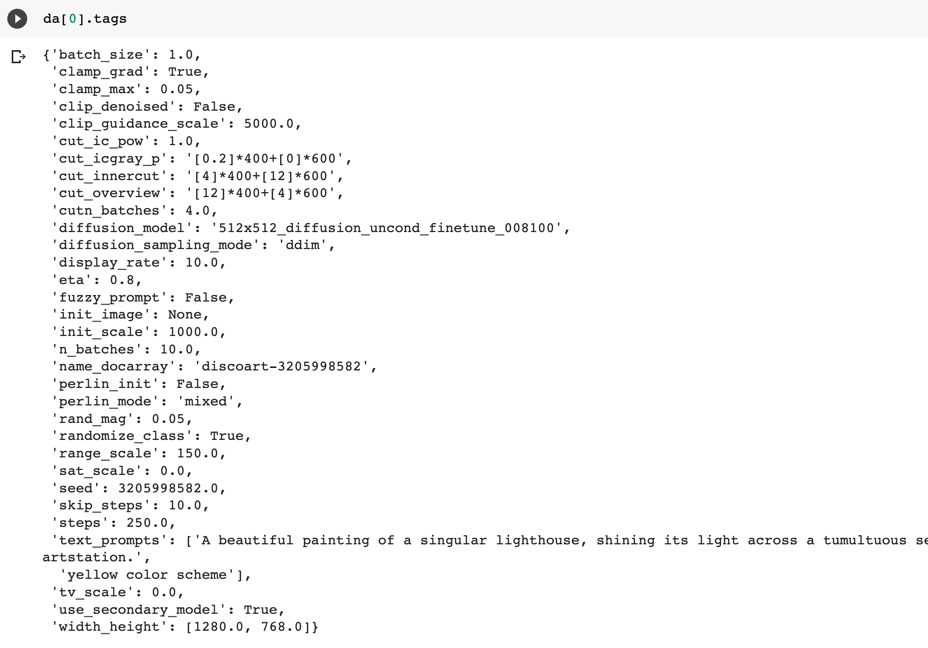
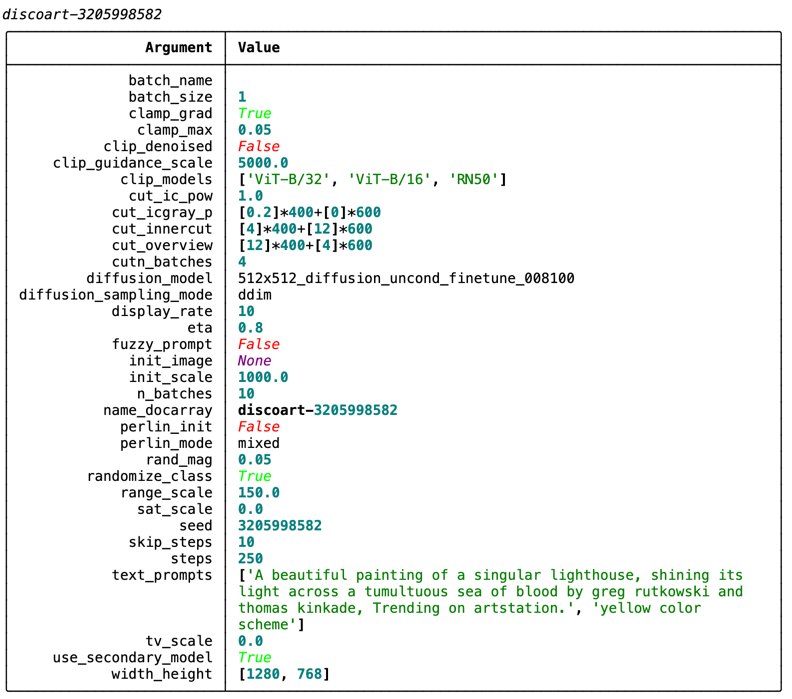
feat: improve persist

Changed region(s): [[0.0, 0.0, 1.0, 1.0], [0.5758, 0.2469, 0.6364, 0.2778]]

diff --git a/discoart/runner.py b/discoart/runner.py
@@ -2,6 +2,7 @@ import gc
 import random
 from threading import Thread
 
+import clip
 import lpips
 import numpy as np
 import torch
@@ -10,7 +11,7 @@ import torchvision.transforms.functional as TF
 from IPython import display
 from docarray import DocumentArray, Document
 from ipywidgets import Output
-import clip
+
 from .helper import parse_prompt, logger
 from .nn.losses import spherical_dist_loss, tv_loss, range_loss
 from .nn.make_cutouts import MakeCutoutsDango
@@ -91,19 +92,19 @@ def do_run(args, models, device) -> 'DocumentArray':
     if args.perlin_init:
         if args.perlin_mode == 'color':
             init = create_perlin_noise(
-                [1.5**-i * 0.5 for i in range(12)], 1, 1, False
+                [1.5 ** -i * 0.5 for i in range(12)], 1, 1, False
             )
             init2 = create_perlin_noise(
-                [1.5**-i * 0.5 for i in range(8)], 4, 4, False
+                [1.5 ** -i * 0.5 for i in range(8)], 4, 4, False
             )
         elif args.perlin_mode == 'gray':
-            init = create_perlin_noise([1.5**-i * 0.5 for i in range(12)], 1, 1, True)
-            init2 = create_perlin_noise([1.5**-i * 0.5 for i in range(8)], 4, 4, True)
+            init = create_perlin_noise([1.5 ** -i * 0.5 for i in range(12)], 1, 1, True)
+            init2 = create_perlin_noise([1.5 ** -i * 0.5 for i in range(8)], 4, 4, True)
         else:
             init = create_perlin_noise(
-                [1.5**-i * 0.5 for i in range(12)], 1, 1, False
+                [1.5 ** -i * 0.5 for i in range(12)], 1, 1, False
             )
-            init2 = create_perlin_noise([1.5**-i * 0.5 for i in range(8)], 4, 4, True)
+            init2 = create_perlin_noise([1.5 ** -i * 0.5 for i in range(8)], 4, 4, True)
         # init = TF.to_tensor(init).add(TF.to_tensor(init2)).div(2).to(device)
         init = (
             TF.to_tensor(init)
@@ -150,7 +151,7 @@ def do_run(args, models, device) -> 'DocumentArray':
             for model_stat in model_stats:
                 for i in range(args.cutn_batches):
                     t_int = (
-                        int(t.item()) + 1
+                            int(t.item()) + 1
                     )  # errors on last step without +1, need to find source
                     # when using SLIP Base model the dimensions need to be hard coded to avoid AttributeError: 'VisionTransformer' object has no attribute 'input_resolution'
                     try:
@@ -187,10 +188,10 @@ def do_run(args, models, device) -> 'DocumentArray':
                         losses.sum().item()
                     )  # log loss, probably shouldn't do per cutn_batch
                     x_in_grad += (
-                        torch.autograd.grad(
-                            losses.sum() * args.clip_guidance_scale, x_in
-                        )[0]
-                        / args.cutn_batches
+                            torch.autograd.grad(
+                                losses.sum() * args.clip_guidance_scale, x_in
+                            )[0]
+                            / args.cutn_batches
                     )
             tv_losses = tv_loss(x_in)
             if secondary_model:
@@ -199,9 +200,9 @@ def do_run(args, models, device) -> 'DocumentArray':
                 range_losses = range_loss(out['pred_xstart'])
             sat_losses = torch.abs(x_in - x_in.clamp(min=-1, max=1)).mean()
             loss = (
-                tv_losses.sum() * args.tv_scale
-                + range_losses.sum() * args.range_scale
-                + sat_losses.sum() * args.sat_scale
+                    tv_losses.sum() * args.tv_scale
+                    + range_losses.sum() * args.range_scale
+                    + sat_losses.sum() * args.sat_scale
             )
             if init is not None and args.init_scale:
                 init_losses = lpips_model(x_in, init)
@@ -215,7 +216,7 @@ def do_run(args, models, device) -> 'DocumentArray':
         if args.clamp_grad and not x_is_NaN:
             magnitude = grad.square().mean().sqrt()
             return (
-                grad * magnitude.clamp(max=args.clamp_max) / magnitude
+                    grad * magnitude.clamp(max=args.clamp_max) / magnitude
             )  # min=-0.02, min=-clamp_max,
         return grad
 
@@ -286,17 +287,12 @@ def do_run(args, models, device) -> 'DocumentArray':
                         display.clear_output(wait=True)
                         display.display(display.Image('progress.png'))
                         d.chunks.plot_image_sprites(
-                            f'{args.name_docarray}-progress-{_nb}.png', show_index=True
+                            f'{args.name_docarray}-progress-{_nb}.png',
+                            skip_empty=True,
+                            show_index=True,
+                            keep_aspect_ratio=True,
                         )
-                        t = Thread(
-                            target=_silent_push,
-                            args=(
-                                da_batches,
-                                args.name_docarray,
-                            ),
-                        )
-                        threads.append(t)
-                        t.start()
+                        _start_persist(threads, da_batches, args.name_docarray)
 
                     if cur_t == -1:
                         d.load_pil_image_to_datauri(image)
@@ -305,12 +301,29 @@ def do_run(args, models, device) -> 'DocumentArray':
             t.join()
     display.clear_output(wait=True)
     logger.info(f'done! {args.name_docarray}')
-    da_batches.plot_image_sprites(skip_empty=True, show_index=True, keep_aspect_ratio=True)
+    da_batches.plot_image_sprites(
+        skip_empty=True, show_index=True, keep_aspect_ratio=True
+    )
+    from .config import load_config
+    load_config(da_batches[0].tags)
     return da_batches
+
+
+def _start_persist(threads, da_batches, name_docarray):
+    t = Thread(
+        target=_silent_push,
+        args=(
+            da_batches,
+            name_docarray,
+        ),
+    )
+    threads.append(t)
+    t.start()
 
 
 def _silent_push(da_batches: DocumentArray, name: str) -> None:
     try:
+        da_batches.save_binary(name, protocol='protobuf', compress='lz4')
         da_batches.push(name)
     except Exception as ex:
         logger.debug(f'push failed: {ex}')

diff --git a/README.md b/README.md
@@ -119,13 +119,15 @@ da[0].chunks.save_gif('lighthouse.gif', show_index=True, inline_display=True, si
 
 ![](.github/lighthouse.gif)
 
-Finally, you can review its parameters via:
+Finally, you can review its parameters from `da[0].tags` or print it in a table
 
 ```python
-da[0].tags
-```
-![](.github/tags.png)
+from discoart.config import load_config
 
+load_config(da[0].tags)
+```
+
+![](.github/tags.png)
 
 ### Pull results anywhere anytime
 
